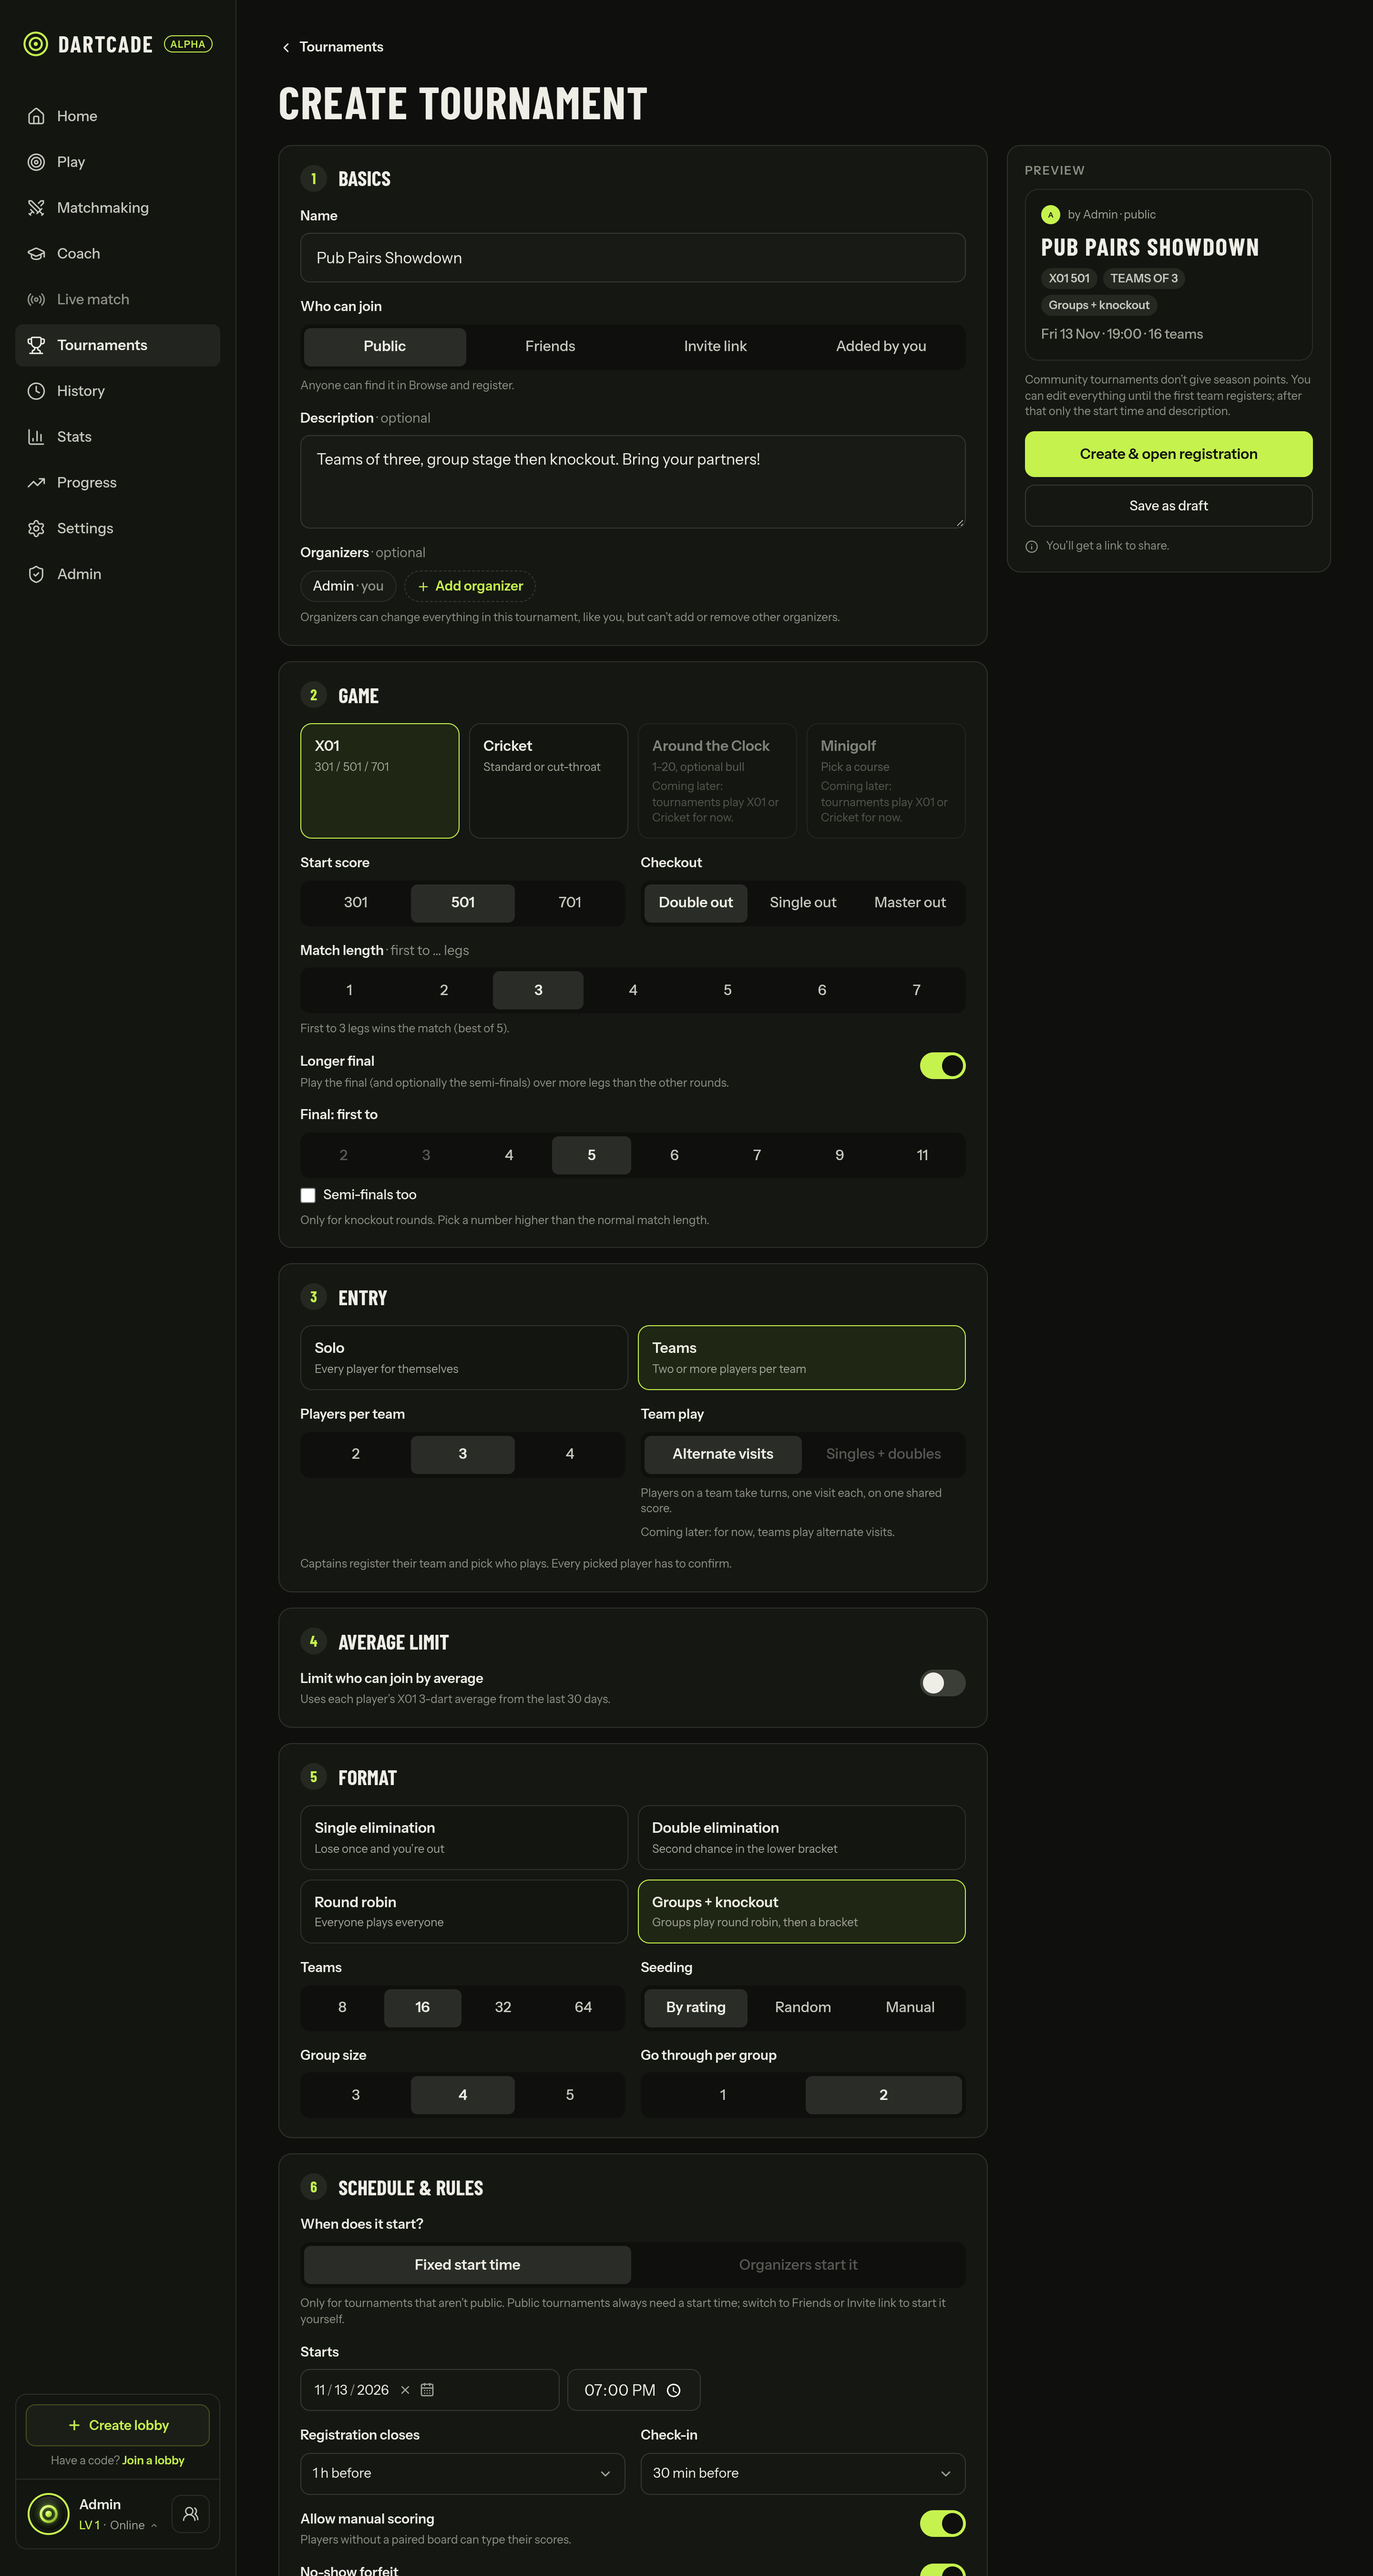
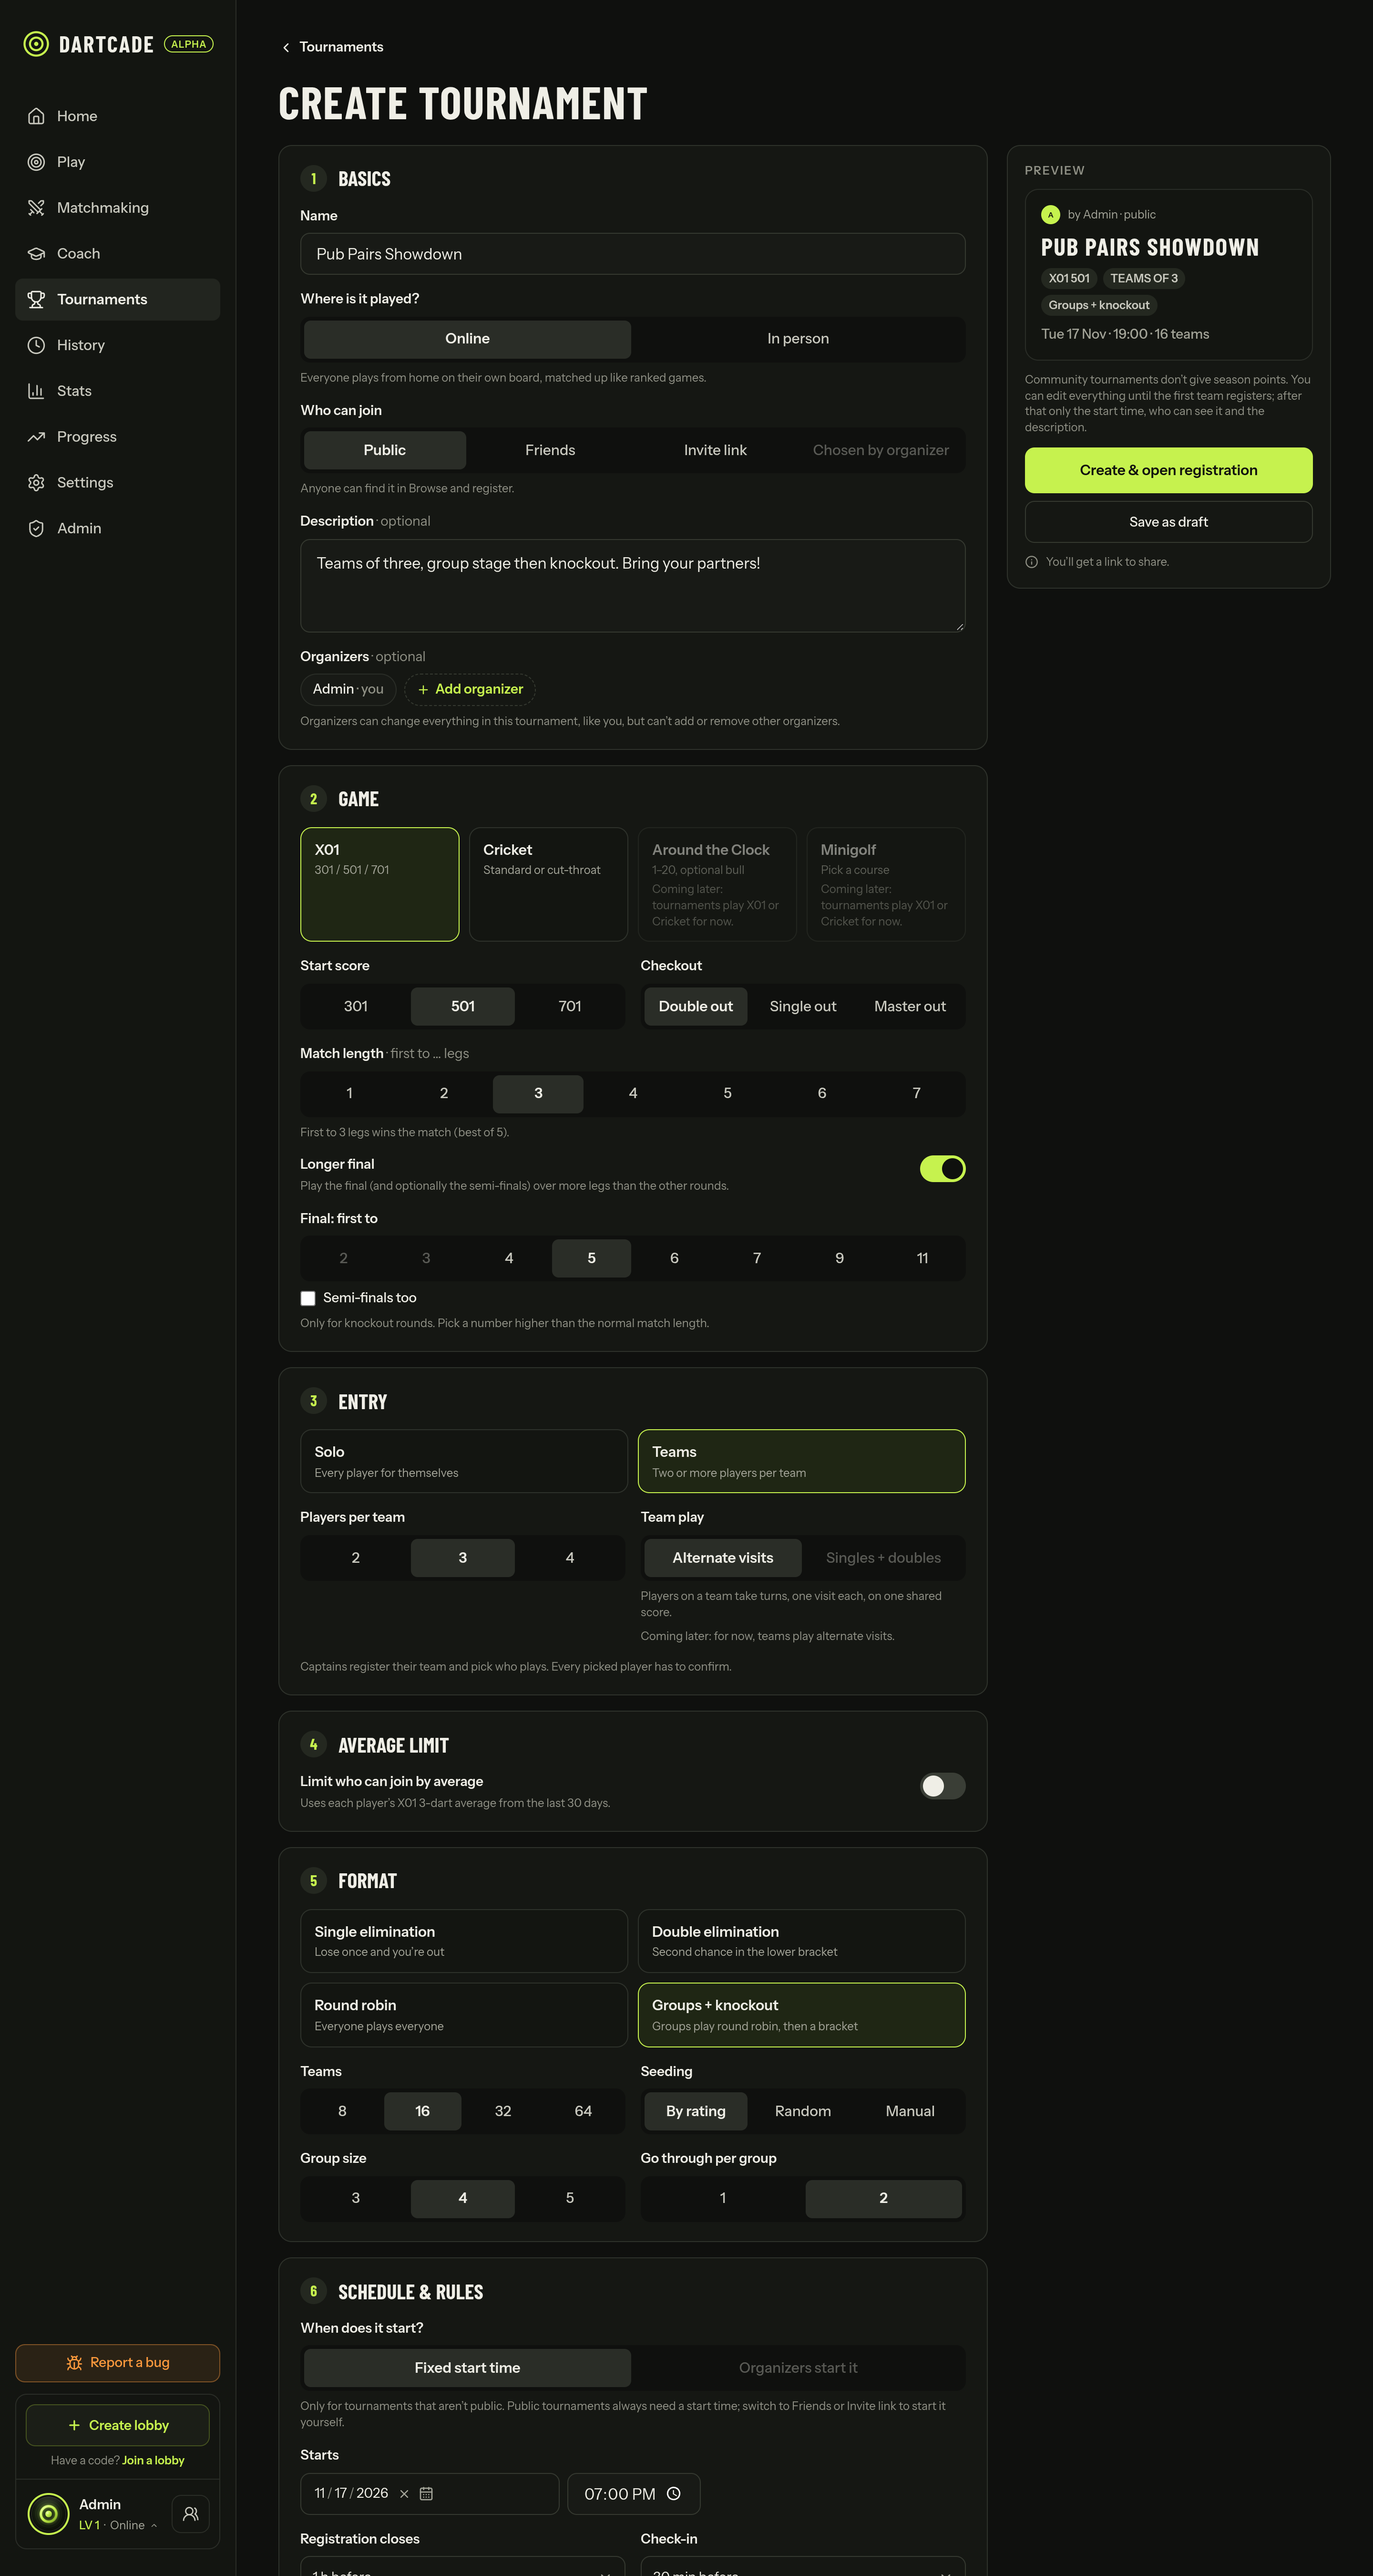
docs(tournaments): screenshots of where it is played and who can see it

diff --git a/e2e/screenshots/32-tournament-play-visibility.spec.ts b/e2e/screenshots/32-tournament-play-visibility.spec.ts
@@ -1,0 +1,28 @@
+import { test, expect } from '@playwright/test'
+import { VIEW, open, openHash, shot } from './helpers.js'
+
+// Tournament-Create's Basics: where it is played (online or in person), who can join (Chosen by
+// organizer only in person) and, for a list the organizers add, who can see it.
+
+test('tournaments: play and visibility, online', async ({ browser }) => {
+  const s = await open(browser, 'admin', VIEW.wide)
+  await openHash(s.page, '/tournaments/new')
+  await s.page.getByLabel('Name', { exact: true }).fill('Friday Open')
+  await expect(s.page.getByRole('radiogroup', { name: 'Who can join' }).getByRole('radio', { name: 'Chosen by organizer' })).toBeDisabled()
+  await shot(s.page, 'tournaments/play-online-desktop.png')
+})
+
+for (const [name, view] of [
+  ['desktop', VIEW.wide],
+  ['phone', VIEW.phone],
+] as const)
+  test(`tournaments: play and visibility, in person and private, ${name}`, async ({ browser }) => {
+    const s = await open(browser, 'admin', view)
+    await openHash(s.page, '/tournaments/new')
+    await s.page.getByLabel('Name', { exact: true }).fill('Club Night')
+    await s.page.getByRole('radiogroup', { name: 'Where is it played?' }).getByRole('radio', { name: 'In person' }).click()
+    await s.page.getByRole('radiogroup', { name: 'Who can join' }).getByRole('radio', { name: 'Chosen by organizer' }).click()
+    await s.page.getByRole('radiogroup', { name: 'Who can see it' }).getByRole('radio', { name: 'Private' }).click()
+    await expect(s.page.getByText('Only the organizers and the players who claimed their spot see it.')).toBeVisible()
+    await shot(s.page, `tournaments/play-in-person-private-${name}.png`)
+  })
